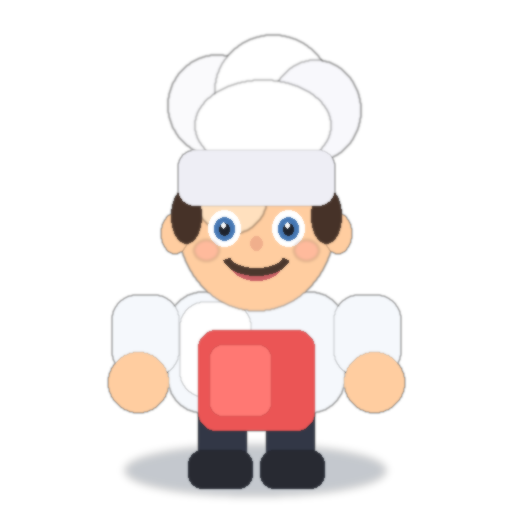
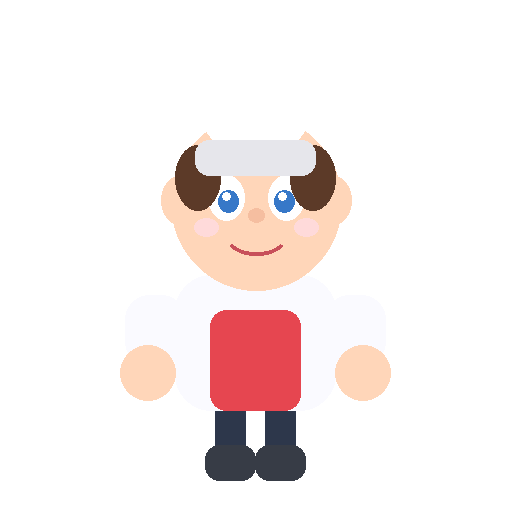
update

diff --git a/lib/data/master_exam.dart b/lib/data/master_exam.dart
@@ -1,0 +1,73 @@
+import 'package:flutter/material.dart';
+
+import '../models/game_world.dart';
+import '../models/match_item.dart';
+import '../models/stage_config.dart';
+import 'animals_world.dart';
+import 'fairy_tale_world.dart';
+import 'fruits_world.dart';
+import 'nature_world.dart';
+import 'ocean_world.dart';
+import 'professions_world.dart';
+import 'space_world.dart';
+import 'surprise_world.dart';
+import 'vehicles_world.dart';
+
+/// Mixed pool from all 9 theme worlds (15 unique items).
+///
+/// Exam stage sizes:
+/// Çıraklık 3/6/9 — Kalfalık 4/8/12 — Ustalık 5/10/15
+final masterExamItems = <MatchItem>[
+  natureItems[0], // Bulut
+  vehicleItems[0], // Araba
+  fruitItems[0], // Elma
+  animalItems[0], // Kedi
+  professionItems[0], // Doktor
+  oceanItems[0], // Balina
+  spaceItems[0], // Roket
+  fairyTaleItems[0], // Kırmızı Başlıklı Kız
+  surpriseItems[0], // Mutlu
+  natureItems[1], // Güneş
+  vehicleItems[1], // Otobüs
+  fruitItems[1], // Muz
+  animalItems[1], // Köpek
+  spaceItems[1], // Astronot
+  surpriseItems[1], // Üzgün
+];
+
+final masterExam = GameWorld(
+  id: 'exam_master',
+  title: 'Ustalık',
+  subtitle: 'Tüm dünyaların dostlarını karışık buluştur.',
+  icon: Icons.workspace_premium_rounded,
+  color: Color(0xFFFFC857),
+  isAvailable: true,
+  kind: WorldKind.exam,
+  lockedHint: 'Tüm dünyaları bitir',
+  stages: [
+    StageConfig(
+      number: 1,
+      title: 'Kolay Deneme',
+      items: masterExamItems.take(5).toList(growable: false),
+      skyTop: Color(0xFFE0B040),
+      skyBottom: Color(0xFFFFF0C0),
+      groundColor: Color(0xFFC4A050),
+    ),
+    StageConfig(
+      number: 2,
+      title: 'Orta Sınav',
+      items: masterExamItems.take(10).toList(growable: false),
+      skyTop: Color(0xFFD4A030),
+      skyBottom: Color(0xFFFFE082),
+      groundColor: Color(0xFFB89040),
+    ),
+    StageConfig(
+      number: 3,
+      title: 'Zor Sınav',
+      items: masterExamItems.toList(growable: false),
+      skyTop: Color(0xFFC49020),
+      skyBottom: Color(0xFFFFC857),
+      groundColor: Color(0xFFA87830),
+    ),
+  ],
+);

diff --git a/lib/game/shadow_game.dart b/lib/game/shadow_game.dart
@@ -178,17 +178,19 @@ class ShadowGame extends FlameGame {
   Future<void> _buildStage(StageConfig stage) async {
     final count = stage.matchCount;
     final horizontalPadding = max(
-      count >= 12
+      count >= 15
+          ? 8.0
+          : count >= 12
           ? 12.0
           : count >= 9
           ? 18.0
           : 34.0,
-      size.x * 0.02,
+      size.x * 0.015,
     );
     final availableWidth = size.x - (horizontalPadding * 2);
     final cellWidth = availableWidth / count;
-    final targetY = max(140.0, size.y * 0.34);
-    final objectY = min(size.y - 80, size.y * 0.74);
+    final targetY = max(count >= 15 ? 130.0 : 140.0, size.y * 0.33);
+    final objectY = min(size.y - (count >= 15 ? 70.0 : 80.0), size.y * 0.74);
 
     final backdrop = StageBackdropComponent(stage: stage)..size = size.clone();
     _stageComponents.add(backdrop);
@@ -241,21 +243,33 @@ class ShadowGame extends FlameGame {
     final count = currentStage?.matchCount ?? 0;
     final dense = count >= 9;
     final veryDense = count >= 12;
+    final ultraDense = count >= 15;
     final maxWidth = min(
-      veryDense
+      ultraDense
+          ? 54.0
+          : veryDense
           ? 68.0
           : dense
           ? 86.0
           : 116.0,
-      cellWidth * 0.78,
+      cellWidth * 0.82,
     );
     final maxHeight = min(
-      veryDense
+      ultraDense
+          ? 54.0
+          : veryDense
           ? 68.0
           : dense
           ? 84.0
           : 112.0,
-      size.y * (veryDense ? 0.16 : dense ? 0.18 : 0.21),
+      size.y *
+          (ultraDense
+              ? 0.13
+              : veryDense
+              ? 0.16
+              : dense
+              ? 0.18
+              : 0.21),
     );
     final scale = min(maxWidth / imageSize.x, maxHeight / imageSize.y);
     return imageSize * scale;

diff --git a/test/master_exam_test.dart b/test/master_exam_test.dart
@@ -1,0 +1,46 @@
+import 'package:flutter_test/flutter_test.dart';
+import 'package:shadow_guardian/data/master_exam.dart';
+
+void main() {
+  test('master exam stages use 5, 10 and 15 matches', () {
+    expect(
+      masterExam.stages.map((stage) => stage.matchCount),
+      orderedEquals([5, 10, 15]),
+    );
+    expect(masterExamItems, hasLength(15));
+    expect(masterExam.isExam, isTrue);
+    expect(masterExam.isAvailable, isTrue);
+  });
+
+  test('master items mix all theme worlds', () {
+    final ids = masterExamItems.map((item) => item.id).toSet();
+    expect(ids, hasLength(15));
+    expect(
+      ids,
+      containsAll([
+        'cloud',
+        'car',
+        'apple',
+        'cat',
+        'doctor',
+        'whale',
+        'rocket',
+        'red_hood',
+        'happy',
+      ]),
+    );
+  });
+
+  test('each master stage includes all items from the previous stage', () {
+    for (var index = 1; index < masterExam.stages.length; index++) {
+      final previousIds = masterExam.stages[index - 1].items
+          .map((item) => item.id)
+          .toSet();
+      final currentIds = masterExam.stages[index].items
+          .map((item) => item.id)
+          .toSet();
+
+      expect(currentIds.containsAll(previousIds), isTrue);
+    }
+  });
+}

diff --git a/lib/data/professions_world.dart b/lib/data/professions_world.dart
@@ -4,29 +4,26 @@ import '../models/game_world.dart';
 import '../models/match_item.dart';
 import '../models/stage_config.dart';
 
+/// Original CC0 profession characters drawn for Shadow Guardian.
 const professionItems = <MatchItem>[
+  MatchItem(id: 'doctor', name: 'Doktor', assetPath: 'professions/doctor.png'),
+  MatchItem(id: 'police', name: 'Polis', assetPath: 'professions/police.png'),
   MatchItem(
     id: 'firefighter',
     name: 'İtfaiyeci',
     assetPath: 'professions/firefighter.png',
   ),
   MatchItem(
-    id: 'doctor',
-    name: 'Doktor',
-    assetPath: 'professions/doctor.png',
-  ),
-  MatchItem(id: 'chef', name: 'Aşçı', assetPath: 'professions/chef.png'),
-  MatchItem(id: 'police', name: 'Polis', assetPath: 'professions/police.png'),
-  MatchItem(
     id: 'teacher',
     name: 'Öğretmen',
     assetPath: 'professions/teacher.png',
   ),
   MatchItem(
-    id: 'builder',
-    name: 'İnşaatçı',
-    assetPath: 'professions/builder.png',
+    id: 'engineer',
+    name: 'Mühendis',
+    assetPath: 'professions/engineer.png',
   ),
+  MatchItem(id: 'chef', name: 'Aşçı', assetPath: 'professions/chef.png'),
 ];
 
 final professionsWorld = GameWorld(

diff --git a/lib/data/surprise_world.dart b/lib/data/surprise_world.dart
@@ -31,25 +31,25 @@ final surpriseWorld = GameWorld(
       number: 1,
       title: 'İlk Gülümseme',
       items: surpriseItems.take(2).toList(growable: false),
-      skyTop: Color(0xFFE8A04A),
-      skyBottom: Color(0xFFFFE0A8),
-      groundColor: Color(0xFFD4B878),
+      skyTop: Color(0xFFFFC9A3),
+      skyBottom: Color(0xFFFFEFD6),
+      groundColor: Color(0xFFE8C9A0),
     ),
     StageConfig(
       number: 2,
       title: 'Duygu Avı',
       items: surpriseItems.take(4).toList(growable: false),
-      skyTop: Color(0xFFD4893A),
-      skyBottom: Color(0xFFFFCC80),
-      groundColor: Color(0xFFC4A868),
+      skyTop: Color(0xFFFFB897),
+      skyBottom: Color(0xFFFFE4C4),
+      groundColor: Color(0xFFDEB890),
     ),
     StageConfig(
       number: 3,
       title: 'Duygu Ustası',
       items: surpriseItems.toList(growable: false),
-      skyTop: Color(0xFFC4742E),
-      skyBottom: Color(0xFFFFB74D),
-      groundColor: Color(0xFFB09858),
+      skyTop: Color(0xFFFFA878),
+      skyBottom: Color(0xFFFFD9B0),
+      groundColor: Color(0xFFD4A878),
     ),
   ],
 );

diff --git a/lib/data/world_catalog.dart b/lib/data/world_catalog.dart
@@ -6,6 +6,7 @@ import 'apprentice_exam.dart';
 import 'fairy_tale_world.dart';
 import 'fruits_world.dart';
 import 'journeyman_exam.dart';
+import 'master_exam.dart';
 import 'nature_world.dart';
 import 'ocean_world.dart';
 import 'professions_world.dart';
@@ -45,18 +46,8 @@ List<GameWorld> get playableWorlds => [
   spaceWorld,
   fairyTaleWorld,
   surpriseWorld,
+  masterExam,
 ];
-
-const masterExam = GameWorld(
-  id: 'exam_master',
-  title: 'Ustalık',
-  subtitle: 'Tüm dünyaların dostlarını karışık buluştur.',
-  icon: Icons.workspace_premium_rounded,
-  color: Color(0xFFFFC857),
-  stages: [],
-  kind: WorldKind.exam,
-  lockedHint: 'Tüm dünyaları bitir',
-);
 
 /// Menu order: 3 themes → exam → 3 themes → exam → 3 themes → exam.
 List<GameWorld> get allWorlds => [

diff --git a/lib/data/journeyman_exam.dart b/lib/data/journeyman_exam.dart
@@ -13,19 +13,19 @@ import 'vehicles_world.dart';
 /// Mixed pool from the first 6 theme worlds (2 items each = 12).
 ///
 /// Exam stage sizes:
-/// Çıraklık 3/6/9 — Kalfalık 4/8/12 — Ustalık 5/10/15 (later)
+/// Çıraklık 3/6/9 — Kalfalık 4/8/12 — Ustalık 5/10/15
 final journeymanExamItems = <MatchItem>[
   natureItems[0], // Bulut
   vehicleItems[0], // Araba
   fruitItems[0], // Elma
   animalItems[0], // Kedi
-  professionItems[0], // İtfaiyeci
+  professionItems[0], // Doktor
   oceanItems[0], // Balina
   natureItems[1], // Güneş
   vehicleItems[1], // Otobüs
   fruitItems[1], // Muz
   animalItems[1], // Köpek
-  professionItems[1], // Doktor
+  professionItems[1], // Polis
   oceanItems[1], // Penguen
 ];
 

diff --git a/lib/data/apprentice_exam.dart b/lib/data/apprentice_exam.dart
@@ -10,7 +10,7 @@ import 'vehicles_world.dart';
 /// Mixed pool from Doğa + Araçlar + Meyve & Sebze (one from each, repeating).
 ///
 /// Exam stage sizes are intentionally harder than theme worlds:
-/// Çıraklık 3/6/9 — Kalfalık 4/8/12 — Ustalık 5/10/15 (later)
+/// Çıraklık 3/6/9 — Kalfalık 4/8/12 — Ustalık 5/10/15
 final apprenticeExamItems = <MatchItem>[
   natureItems[0], // Bulut
   vehicleItems[0], // Araba

diff --git a/test/journeyman_exam_test.dart b/test/journeyman_exam_test.dart
@@ -17,7 +17,7 @@ void main() {
     expect(ids, hasLength(12));
     expect(
       ids,
-      containsAll(['cloud', 'car', 'apple', 'cat', 'firefighter', 'whale']),
+      containsAll(['cloud', 'car', 'apple', 'cat', 'doctor', 'whale']),
     );
   });
 

diff --git a/assets/licenses/KENNEY_CC0.md b/assets/licenses/KENNEY_CC0.md
@@ -51,12 +51,12 @@ Creative Commons Zero (CC0 1.0) for this project:
 Cartoon profession characters in `assets/game/professions/` were created for
 Shadow Guardian and released under Creative Commons Zero (CC0 1.0):
 
-- `firefighter.png` — itfaiyeci üniforması
 - `doctor.png` — doktor / önlük + stetoskop
+- `police.png` — polis üniforması + kep
+- `firefighter.png` — itfaiyeci / kask + yansıtıcı şerit
+- `teacher.png` — öğretmen / gözlük + kitap
+- `engineer.png` — mühendis / baret + yelek
 - `chef.png` — aşçı / şapka + önlük
-- `police.png` — polis üniforması
-- `teacher.png` — öğretmen / kitap
-- `builder.png` — inşaatçı / baret + yelek
 
 ## Ocean (Kenney CC0)
 
